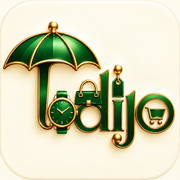
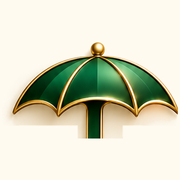
fix(pwa): use native mobile startup branding

diff --git a/tests/mobile-launch-product-detail.test.ts b/tests/mobile-launch-product-detail.test.ts
@@ -20,27 +20,16 @@ test("minimum price uses only complete active in-stock purchasable variants",()=
   assert.equal(minimumPurchasableVariantPrice({basePrice:25,activeOptionCount:1,variants:[{active:false,stock:1,valueCount:1,priceOverride:10}]}),null);
 });
 
-test("startup branding is a first-paint standalone-PWA layer without an arbitrary delay",()=>{
-  const layout=source("app/layout.tsx"),layer=source("components/PwaStartupLayer.tsx"),css=source("app/globals.css"),manifest=source("app/manifest.ts"),worker=source("public/sw.js");
-  assert.match(layout,/display-mode: standalone/);
-  assert.match(layout,/navigator\.standalone === true/);
-  assert.match(layout,/<PwaStartupLayer\/>/);
-  assert.match(layout,/href="\/images\/brand\/todijo-pwa-startup\.png\?v=1" media="\(display-mode: standalone\)"/);
-  assert.match(layer,/<source media="\(display-mode: standalone\)" srcSet="\/images\/brand\/todijo-pwa-startup\.png\?v=1"/);
-  assert.match(layer,/requestAnimationFrame/);
-  assert.match(layer,/await image\.decode\(\)/);
-  assert.match(layer,/addEventListener\("load"/);
-  assert.match(layer,/transitionend/);
-  assert.doesNotMatch(layer,/setTimeout|setInterval/);
-  assert.match(css,/\.pwaStartupLayer\{display:none\}/);
-  assert.match(css,/html\.todijoStandaloneLaunch \.pwaStartupLayer/);
-  assert.match(css,/env\(safe-area-inset-top\)/);
-  assert.match(css,/prefers-reduced-motion:reduce/);
-  assert.match(css,/\.pwaStartupLayer img\{display:block;width:100%;height:100%;max-width:none;max-height:none;object-fit:contain;object-position:center;user-select:none\}/);
+test("startup branding relies only on native PWA metadata without a JavaScript splash",()=>{
+  const layout=source("app/layout.tsx"),css=source("app/globals.css"),manifest=source("app/manifest.ts"),worker=source("public/sw.js");
+  assert.equal(existsSync("components/PwaStartupLayer.tsx"),false);
+  assert.doesNotMatch(layout,/PwaStartupLayer|todijo-standalone-startup|todijoStandaloneLaunch|display-mode: standalone|navigator\.standalone|todijo-pwa-startup/);
+  assert.doesNotMatch(css,/pwaStartupLayer|pwaStartupArtwork|todijoStandaloneLaunch/);
   assert.match(manifest,/background_color: "#fffaf0", theme_color: "#fffaf0"/);
-  assert.match(manifest,/icon-maskable-512\.png\?v=11/);
-  assert.match(worker,/CACHE_VERSION = "mobile-brand-v12"/);
+  assert.match(manifest,/icon-maskable-512\.png\?v=12/);
+  assert.match(worker,/CACHE_VERSION = "mobile-brand-v13"/);
   assert.match(worker,/todijo-pwa-startup\.png\?v=1/);
+  assert.doesNotMatch(worker,/setTimeout|setInterval/);
 });
 
 test("standalone startup uses the exact approved Todijo artwork",()=>{
@@ -51,12 +40,12 @@ test("standalone startup uses the exact approved Todijo artwork",()=>{
[1 lines of base64/hex data omitted]
 });
 
-test("PWA startup icons use the centered square derivative of the supplied Todijo artwork",()=>{
+test("PWA launcher icons use the reviewed compact Todijo umbrella composition",()=>{
   const icons=[
[8 lines of base64/hex data omitted]
   ] as const;
   for(const [path,size,sha256] of icons){
     const png=readFileSync(path);
@@ -83,11 +72,11 @@ test("PWA artwork fills the regular icon canvas while the maskable derivative st
     return {width:(maxX-minX+1)/info.width,height:(maxY-minY+1)/info.height,maxRadius:maxRadius/info.width};
   }
   const regular=await bounds("public/icon-512.png");
-  assert.ok(regular.width>=.99,`regular icon width occupancy ${regular.width}`);
-  assert.ok(regular.height>=.99,`regular icon height occupancy ${regular.height}`);
+  assert.ok(regular.width>=.94,`regular icon width occupancy ${regular.width}`);
+  assert.ok(regular.height>=.53,`regular icon height occupancy ${regular.height}`);
   const maskable=await bounds("public/icon-maskable-512.png");
-  assert.ok(maskable.width>=.56,`maskable icon width occupancy ${maskable.width}`);
-  assert.ok(maskable.height>=.56,`maskable icon height occupancy ${maskable.height}`);
+  assert.ok(maskable.width>=.74,`maskable icon width occupancy ${maskable.width}`);
+  assert.ok(maskable.height>=.42,`maskable icon height occupancy ${maskable.height}`);
   assert.ok(maskable.maxRadius<=.4,`maskable artwork radius ${maskable.maxRadius}`);
 });
 
@@ -102,7 +91,7 @@ test("umbrella identity, exact default title and install icons are wired",()=>{
   assert.equal(existsSync("app/icon.svg"),false);
   for(const icon of ["icon-192.png","icon-512.png","icon-maskable-512.png"])assert.match(manifest,new RegExp(icon.replace(".","\\.")));
   assert.doesNotMatch(manifest,/apple-icon|favicon|icon\.svg/);
-  assert.match(layout,/apple-icon\.png\?v=11/);
+  assert.match(layout,/apple-icon\.png\?v=12/);
   assert.match(layout,/favicon\.png\?v=1/);
   assert.doesNotMatch(layout,/icon\.svg|favicon\.ico|apple-icon\.png\?v=4/);
 });

diff --git a/app/globals.css b/app/globals.css
@@ -1278,13 +1278,6 @@ a:focus-visible,button:focus-visible,input:focus-visible,select:focus-visible{ou
 .marketplaceFooterCompact small{grid-column:1/-1;color:#ad9dbc;font-size:9px}
 }
 
-/* Installed-PWA first paint only. Hidden unless the head detector confirms standalone display mode. */
-.pwaStartupLayer{display:none}
-html.todijoStandaloneLaunch{background:#fffaf0}
-html.todijoStandaloneLaunch .pwaStartupLayer{position:fixed;z-index:2147483647;inset:0;padding:max(6px,env(safe-area-inset-top)) max(4px,env(safe-area-inset-right)) max(6px,env(safe-area-inset-bottom)) max(4px,env(safe-area-inset-left));display:grid;place-items:center;overflow:hidden;pointer-events:none;background:#fffaf0;opacity:1;visibility:visible;transition:opacity .16s ease-out,visibility .16s ease-out}
-.pwaStartupArtwork{display:contents}.pwaStartupLayer img{display:block;width:100%;height:100%;max-width:none;max-height:none;object-fit:contain;object-position:center;user-select:none}
-html.todijoStandaloneLaunch .pwaStartupLayer.isExiting{opacity:0;visibility:hidden}
-
 .pricingRetry{display:flex;align-items:center;justify-content:space-between;gap:10px}.pricingRetry p{margin:0}.pricingRetry button{min-height:44px;padding:8px 12px;border:1px solid #cdb9e8;border-radius:10px;background:#fff;color:#5b21b6;font:800 12px/1.2 inherit;cursor:pointer}
 
 @media(max-width:760px){
@@ -1303,8 +1296,6 @@ html.todijoStandaloneLaunch .pwaStartupLayer.isExiting{opacity:0;visibility:hidd
   .productGallerySticky .productThumbs{display:none}
 }
 @media(max-width:860px) and (max-height:500px){.productGallerySticky{top:calc(58px + env(safe-area-inset-top))}.productGallerySticky .productGalleryInteractive{height:clamp(150px,34dvh,190px)}}
-@media(prefers-reduced-motion:reduce){html.todijoStandaloneLaunch .pwaStartupLayer{transition:none}}
-
 /* Authentication editorial artwork: form content stays primary and readable. */
 .authPage>*,.authForm>*,.formRow>*,.roleOptions>*{min-width:0}.registrationAddress>label{display:grid;min-width:0;gap:8px}.registrationAddress>label select{width:100%;max-width:100%}.authBrandWithArtwork{isolation:isolate;background:#2b0d52}.authBrandWithArtwork .authArtwork{z-index:-2;object-fit:cover;object-position:center}.authBrandWithArtwork:before{content:"";position:absolute;z-index:-1;inset:0;background:linear-gradient(180deg,rgba(31,9,57,.28),rgba(31,9,57,.7) 62%,rgba(31,9,57,.9))}.authBrandWithArtwork.is-seller .authArtwork{object-position:48% center}.authBrandWithArtwork.is-customer .authArtwork{object-position:center 42%}.authBrandWithArtwork.is-login .authArtwork{object-position:center 40%}.authBrandWithArtwork .authLogo,.authBrandWithArtwork .authPitch,.authBrandWithArtwork>small{position:relative;z-index:2;text-shadow:0 2px 18px rgba(24,5,47,.45)}.authBox,.roleCard,.roleCard strong,.roleCard span{min-width:0}.roleCard strong,.roleCard span{overflow-wrap:anywhere}
 @media(max-width:850px){.authBrandWithArtwork{min-height:220px}.authBrandWithArtwork:before{background:linear-gradient(90deg,rgba(35,10,66,.84),rgba(35,10,66,.42))}.authBrandWithArtwork .authArtwork{object-position:center 34%}.authBrandWithArtwork .authPitch p{max-width:540px}.authBrandWithArtwork>small{display:none}}

diff --git a/app/layout.tsx b/app/layout.tsx
@@ -11,12 +11,6 @@ import CookieConsent from "@/components/CookieConsent";
 import BuyerMarketProvider from "@/components/BuyerMarketProvider";
 import ServiceWorkerRegistration from "@/components/ServiceWorkerRegistration";
 import BackToTop from "@/components/BackToTop";
-import PwaStartupLayer from "@/components/PwaStartupLayer";
-
-const standaloneStartupDetection = `(() => {
-  const standalone = window.matchMedia("(display-mode: standalone)").matches || window.navigator.standalone === true;
-  if (standalone) document.documentElement.classList.add("todijoStandaloneLaunch");
-})();`;
 
 export const viewport: Viewport = {
   themeColor: "#fffaf0",
@@ -34,7 +28,7 @@ export async function generateMetadata(): Promise<Metadata> {
     title: { default: "Todijo Marketplace", template: `%s · ${t("brand")}` },
     description: t("description"),
     metadataBase: new URL(base),
-    icons: { icon: [{ url: "/favicon.png?v=1", sizes: "1254x1254", type: "image/png" }, { url: "/icon-192.png?v=11", sizes: "192x192", type: "image/png" }, { url: "/icon-512.png?v=11", sizes: "512x512", type: "image/png" }], apple: "/apple-icon.png?v=11" },
+    icons: { icon: [{ url: "/favicon.png?v=1", sizes: "1254x1254", type: "image/png" }, { url: "/icon-192.png?v=12", sizes: "192x192", type: "image/png" }, { url: "/icon-512.png?v=12", sizes: "512x512", type: "image/png" }], apple: "/apple-icon.png?v=12" },
     appleWebApp: { capable: true, statusBarStyle: "black-translucent", title: "Todijo" },
     manifest: "/manifest.webmanifest",
     openGraph: { title: t("title"), description: t("description"), type: "website", images: [{ url: "/images/brand/todijo-horizontal-dark.webp", width: 720, height: 400, alt: "Todijo" }] },
@@ -51,11 +45,7 @@ export default async function RootLayout({
   const messages = await getMessages();
   return (
     <html lang={locale} dir={rtlLocales.has(locale) ? "rtl" : "ltr"} suppressHydrationWarning>
-      <head>
-        <link rel="preload" as="image" href="/images/brand/todijo-pwa-startup.png?v=1" media="(display-mode: standalone)" fetchPriority="high" />
-        <script id="todijo-standalone-startup" dangerouslySetInnerHTML={{ __html: standaloneStartupDetection }} />
-      </head>
-      <body className="todijoRootBody"><PwaStartupLayer/><NextIntlClientProvider messages={messages}><BuyerMarketProvider><ToastProvider><WishlistProvider><CartProvider><ServiceWorkerRegistration/>{children}<BackToTop /><CookieConsent /></CartProvider></WishlistProvider></ToastProvider></BuyerMarketProvider></NextIntlClientProvider></body>
+      <body className="todijoRootBody"><NextIntlClientProvider messages={messages}><BuyerMarketProvider><ToastProvider><WishlistProvider><CartProvider><ServiceWorkerRegistration/>{children}<BackToTop /><CookieConsent /></CartProvider></WishlistProvider></ToastProvider></BuyerMarketProvider></NextIntlClientProvider></body>
     </html>
   );
 }

diff --git a/public/sw.js b/public/sw.js
@@ -1,10 +1,10 @@
 /* Todijo Stage 1 service worker: public shell assets only; commerce stays network-authoritative. */
-const CACHE_VERSION = "mobile-brand-v12";
+const CACHE_VERSION = "mobile-brand-v13";
 const CACHE_PREFIX = "todijo-pwa-";
 const SHELL_CACHE = CACHE_PREFIX + "shell-" + CACHE_VERSION;
 const STATIC_CACHE = CACHE_PREFIX + "static-" + CACHE_VERSION;
 const OFFLINE_PAGES = ["/en/offline", "/fr/offline", "/ar/offline"];
-const SHELL_ASSETS = ["/icon-192.png?v=11", "/icon-512.png?v=11", "/icon-maskable-512.png?v=11", "/apple-icon.png?v=11", "/images/brand/todijo-pwa-startup.png?v=1", ...OFFLINE_PAGES];
+const SHELL_ASSETS = ["/icon-192.png?v=12", "/icon-512.png?v=12", "/icon-maskable-512.png?v=12", "/apple-icon.png?v=12", "/images/brand/todijo-pwa-startup.png?v=1", ...OFFLINE_PAGES];
 const STATIC_DESTINATIONS = new Set(["style", "script", "font", "image"]);
 const PUBLIC_IMAGE_PREFIXES = ["/images/", "/icon", "/favicon.png", "/apple-icon.png"];
 const LOCALIZED_PREFIX = /^\/(?:en|fr|ar|ku|tr|de|es|it|nl|zh|fa|hi|pt|ru)(?=\/|$)/i;
@@ -59,8 +59,8 @@ self.addEventListener("push", (event) => {
   const data = safePushData(event);
   event.waitUntil(self.registration.showNotification("Todijo", {
     body: PUSH_COPY[data.category],
-    icon: "/icon-192.png?v=11",
-    badge: "/icon-192.png?v=11",
+    icon: "/icon-192.png?v=12",
+    badge: "/icon-192.png?v=12",
     tag: `todijo-${data.category.toLowerCase()}`,
     data: { href: data.href },
   }));

diff --git a/app/manifest.ts b/app/manifest.ts
@@ -1,5 +1,5 @@
 import type { MetadataRoute } from "next";
 
 export default function manifest(): MetadataRoute.Manifest {
-  return { id: "/", name: "Todijo Marketplace", short_name: "Todijo", description: "Professional multi-vendor marketplace", start_url: "/?source=pwa", scope: "/", display: "standalone", orientation: "any", background_color: "#fffaf0", theme_color: "#fffaf0", categories: ["shopping"], icons: [{ src: "/icon-192.png?v=11", sizes: "192x192", type: "image/png", purpose: "any" }, { src: "/icon-512.png?v=11", sizes: "512x512", type: "image/png", purpose: "any" }, { src: "/icon-maskable-512.png?v=11", sizes: "512x512", type: "image/png", purpose: "maskable" }] };
+  return { id: "/", name: "Todijo Marketplace", short_name: "Todijo", description: "Professional multi-vendor marketplace", start_url: "/?source=pwa", scope: "/", display: "standalone", orientation: "any", background_color: "#fffaf0", theme_color: "#fffaf0", categories: ["shopping"], icons: [{ src: "/icon-192.png?v=12", sizes: "192x192", type: "image/png", purpose: "any" }, { src: "/icon-512.png?v=12", sizes: "512x512", type: "image/png", purpose: "any" }, { src: "/icon-maskable-512.png?v=12", sizes: "512x512", type: "image/png", purpose: "maskable" }] };
 }

diff --git a/tests/mobile-pwa-product-first.test.ts b/tests/mobile-pwa-product-first.test.ts
@@ -45,8 +45,8 @@ test("bottom navigation remains exactly five app-safe destinations",()=>{
 
 test("current PWA metadata references only versioned premium Todijo launcher assets",()=>{
   const manifest=source("app/manifest.ts"),worker=source("public/sw.js"),layout=source("app/layout.tsx");
-  for(const icon of ["icon-192.png?v=11","icon-512.png?v=11","icon-maskable-512.png?v=11"])assert.ok(manifest.includes(icon),icon);
-  assert.ok(layout.includes("apple-icon.png?v=11"));
+  for(const icon of ["icon-192.png?v=12","icon-512.png?v=12","icon-maskable-512.png?v=12"])assert.ok(manifest.includes(icon),icon);
+  assert.ok(layout.includes("apple-icon.png?v=12"));
   assert.ok(!manifest.includes("apple-icon.png"));
   for(const icon of ["public/icon-192.png","public/icon-512.png","public/icon-maskable-512.png","public/apple-icon.png"])assert.ok(existsSync(icon),icon);
   assert.doesNotMatch(layout,/TodijoLaunchSplash/);

diff --git a/tests/phase9-stages2-6-android-twa.test.ts b/tests/phase9-stages2-6-android-twa.test.ts
@@ -67,7 +67,7 @@ test("stage 6 push UI is conservative, route-allowlisted and never auto-prompts"
 test("PWA sensitive commerce paths remain network-only after the cache version update", () => {
   const worker = source("public/sw.js");
   for (const path of ["api", "checkout", "cart", "account", "orders?", "messages", "notifications", "favorites", "login"]) assert.match(worker, new RegExp(path.replace("?", "\\?")));
-  assert.match(worker, /mobile-brand-v12/);
+  assert.match(worker, /mobile-brand-v13/);
   assert.match(worker, /request\.mode === "navigate"/);
 });
 

diff --git a/tests/phase9-stage1-pwa-twa.test.ts b/tests/phase9-stage1-pwa-twa.test.ts
@@ -25,7 +25,7 @@ test("production service worker registration is scope-bound and bypasses HTTP ca
 });
 
 test("service worker versions caches and removes obsolete caches", () => {
-  assert.match(worker, /CACHE_VERSION = "mobile-brand-v12"/);
+  assert.match(worker, /CACHE_VERSION = "mobile-brand-v13"/);
   assert.match(worker, /key\.startsWith\(CACHE_PREFIX\)/);
   assert.match(worker, /caches\.delete\(key\)/);
   assert.doesNotMatch(worker, /skipWaiting/);

diff --git a/tests/not-found-brand.test.ts b/tests/not-found-brand.test.ts
@@ -25,6 +25,6 @@ test("install metadata references only the current PWA startup artwork", () => {
   }
   assert.doesNotMatch(manifest, /apple-icon|favicon|icon\.svg/);
   assert.doesNotMatch(layout, /icon\.svg|favicon\.ico|apple-icon\.png\?v=4/);
-  assert.match(layout, /apple-icon\.png\?v=11/);
+  assert.match(layout, /apple-icon\.png\?v=12/);
   assert.equal(fs.existsSync(path.join(process.cwd(), "app/icon.svg")), false);
 });
